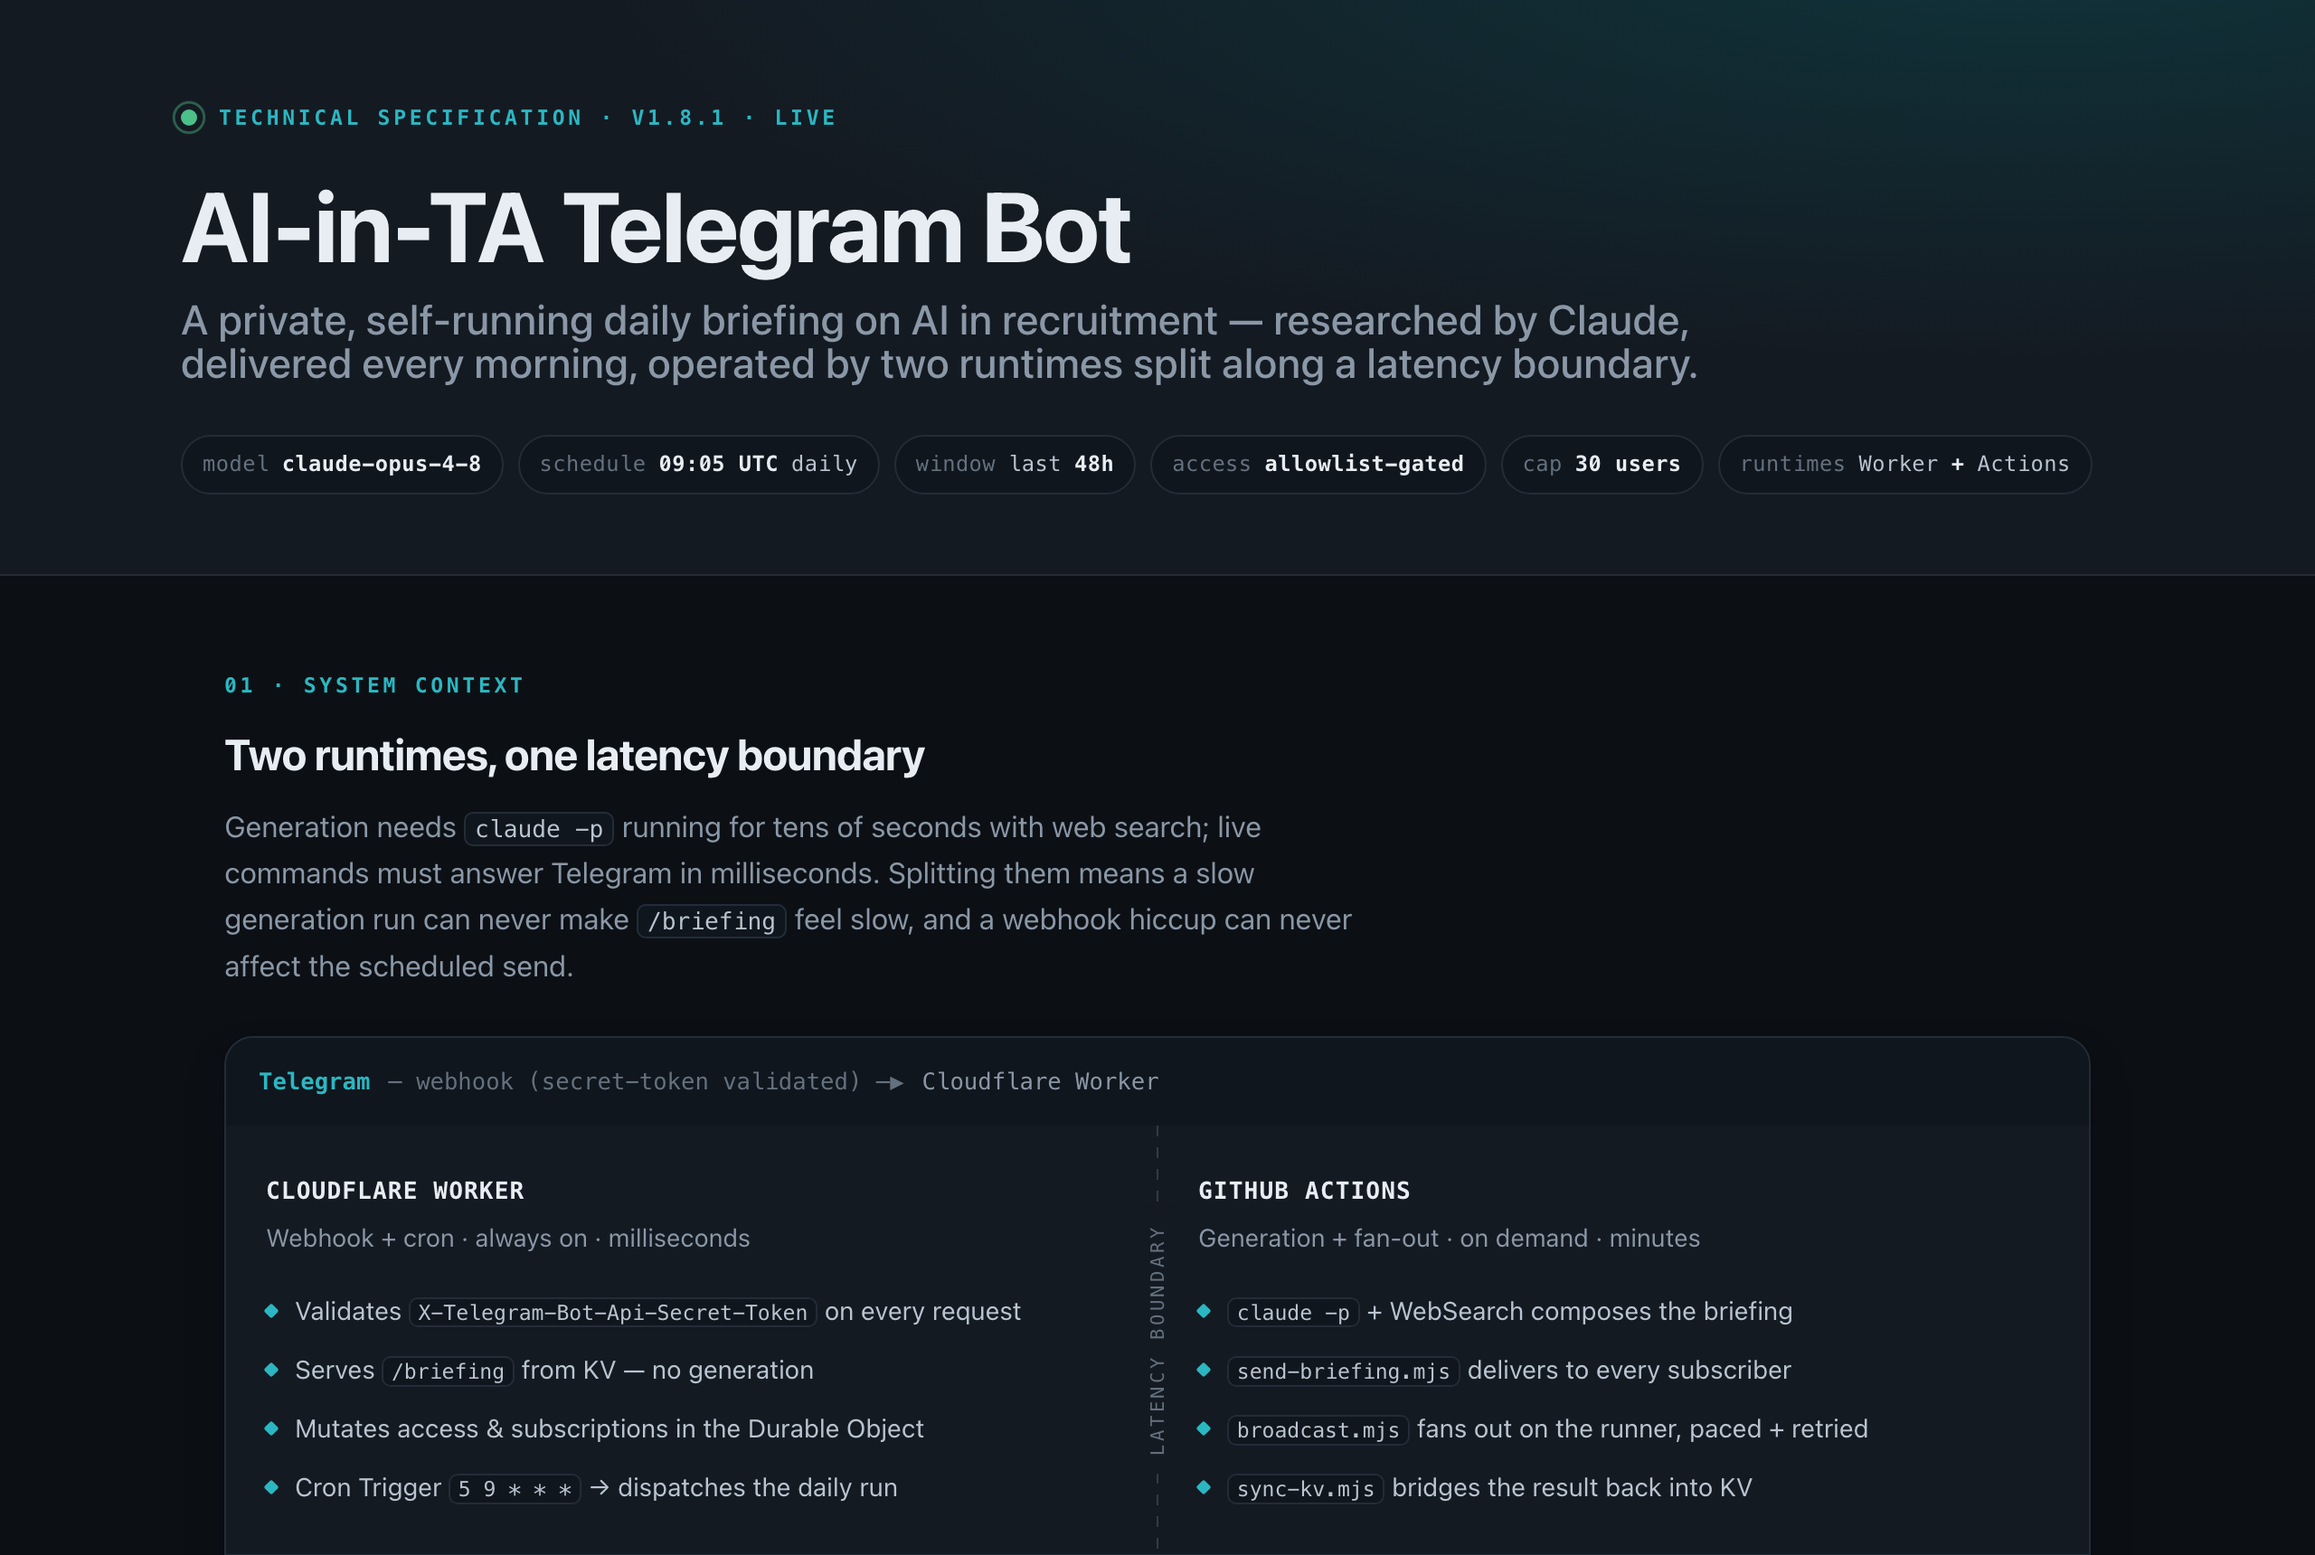
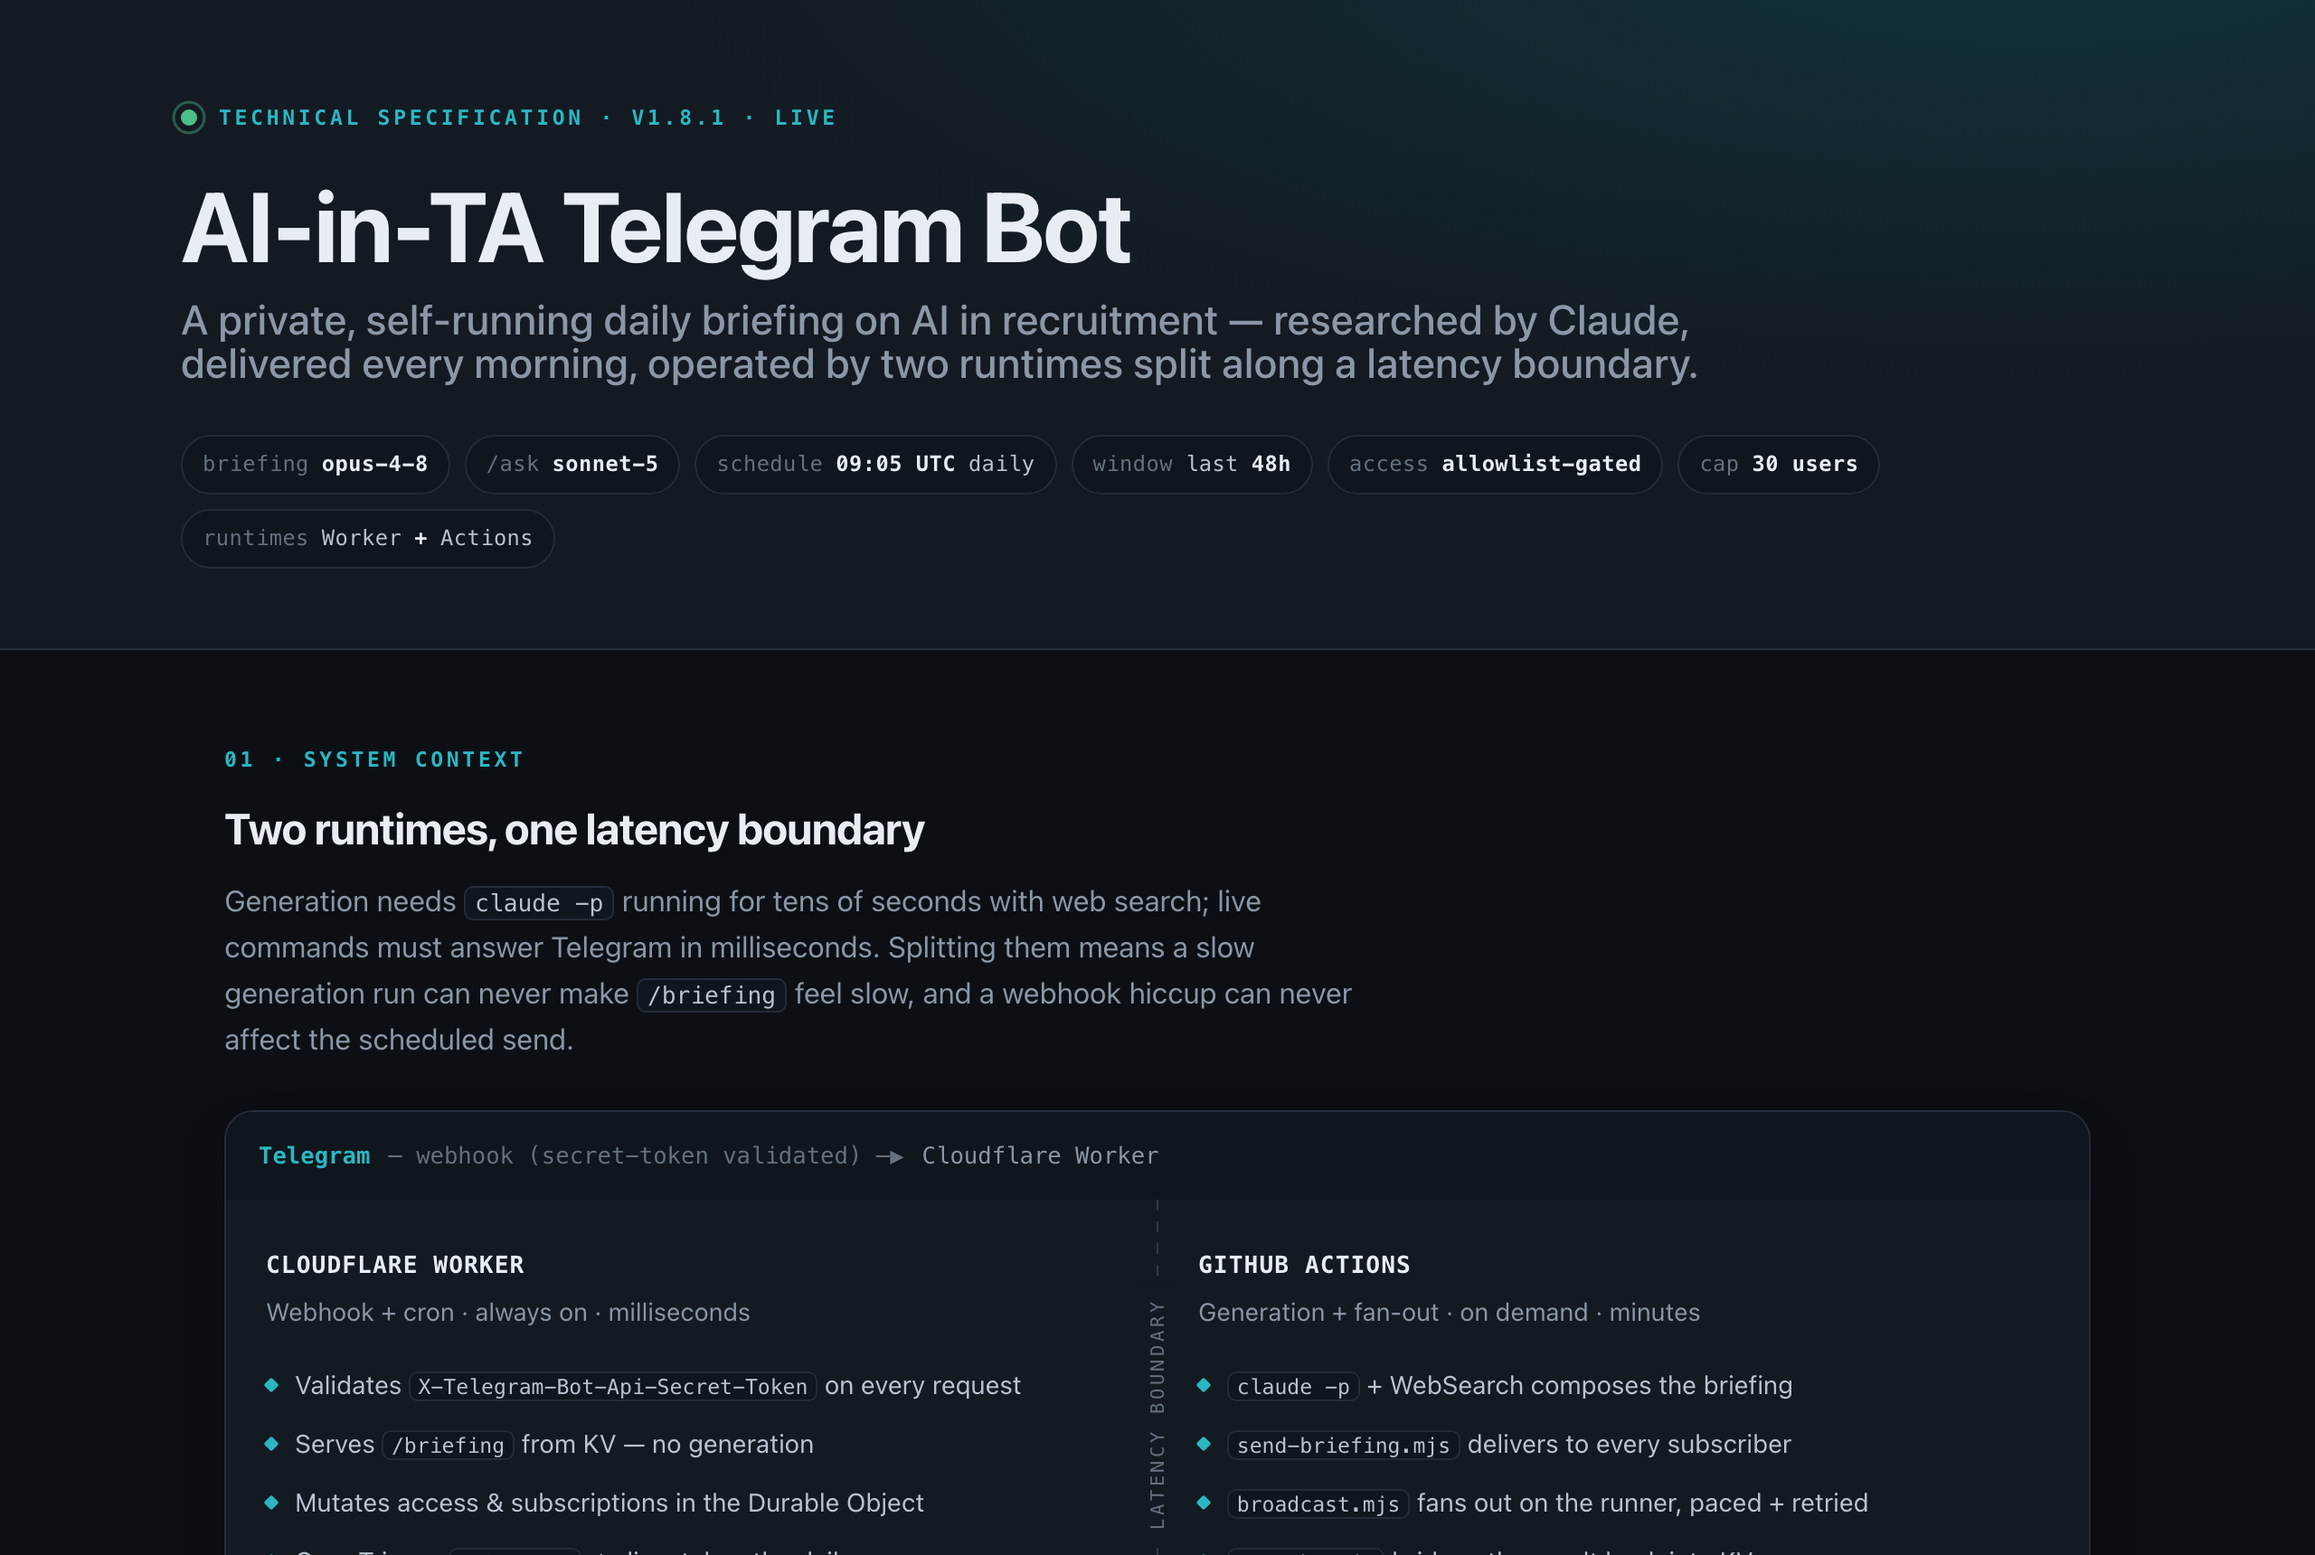
Scope the spec masthead model chips by what they power (#94)
The masthead read `model claude-opus-4-8` — true of the briefing, but
the page now documents three claude -p invocations, so the most
prominent factual claim on it implied one model runs everything.

Split into `briefing opus-4-8` and `/ask sonnet-5`, the two that are
user-facing. The wiki ingest's Haiku is deliberately not a chip: it's
internal bookkeeping nobody interacts with, and §3.3's table carries
all three with their tool allowlists and budgets.

Dropped the `claude-` prefix from both values. It's redundant on a page
whose own subtitle says "researched by Claude", and the full ids are in
§3.3 where someone copying one actually needs them.

A seventh chip wraps: the content column is 1080px and six chips
already filled it, so `runtimes Worker + Actions` now sits alone on a
second line. Kept anyway rather than dropping a chip to buy one tidy
row -- .chips sets flex-wrap, so the layout was built for this. If the
single row matters more, `runtimes` is the one to cut: section 01
immediately below is titled "Two runtimes, one latency boundary" and
says it at length.

Covers re-rendered from the same file so README matches what the link
opens. Live page deployed and verified byte-identical to this commit.

diff --git a/docs/technical-spec.html b/docs/technical-spec.html
@@ -689,7 +689,8 @@
           >
         </h1>
         <div class="chips">
-          <span class="chip"><span class="k">model</span> <b>claude-opus-4-8</b></span>
+          <span class="chip"><span class="k">briefing</span> <b>opus-4-8</b></span>
+          <span class="chip"><span class="k">/ask</span> <b>sonnet-5</b></span>
           <span class="chip"><span class="k">schedule</span> <b>09:05 UTC</b> daily</span>
           <span class="chip"><span class="k">window</span> last <b>48h</b></span>
           <span class="chip"><span class="k">access</span> <b>allowlist-gated</b></span>

diff --git a/CHANGELOG.md b/CHANGELOG.md
@@ -2,6 +2,20 @@
 
 ## [Unreleased]
 
+### Spec masthead names both user-facing models
+
+The one-pager's masthead read `model claude-opus-4-8` — true of the briefing,
+but the page documents three `claude -p` invocations now, so its most prominent
+claim implied one model runs everything. Split into `briefing opus-4-8` and
+`/ask sonnet-5`. The ingest's Haiku stays out: it's internal bookkeeping nobody
+interacts with, and §3.3 carries all three with their tool allowlists and
+budgets.
+
+A seventh chip doesn't fit the 1080px column, so `runtimes Worker + Actions`
+wraps to its own line. Kept rather than dropping a chip for spacing — `.chips`
+sets `flex-wrap`, so the layout was built for it. README covers re-rendered
+from the same file, and the live page redeployed to match.
+
 ## [1.8.1] - 2026-08-20
 
 ### Plain text now points at `/ask`
